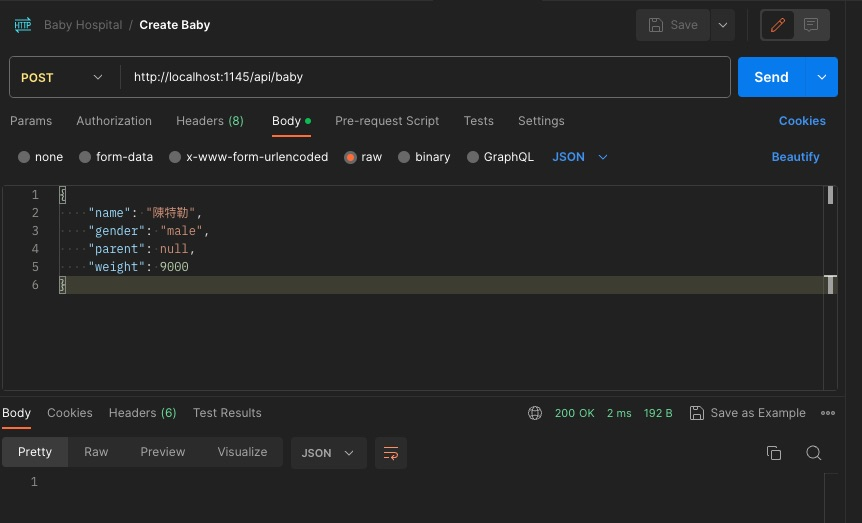
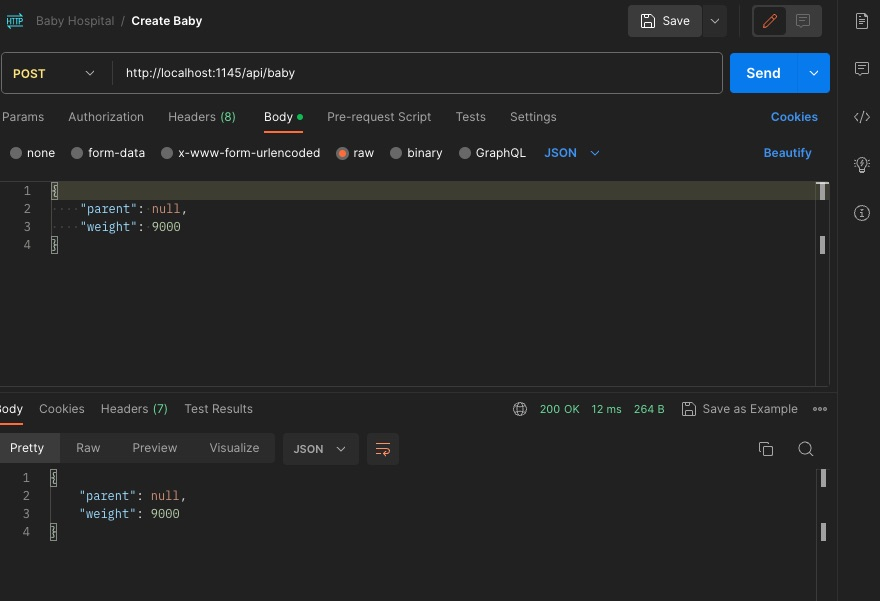
Add docs, just one readme is too long lol

diff --git a/backend/index.js b/backend/index.js
@@ -3,6 +3,8 @@ const app = express()
 const port = 1145
 
 
+app.use(express.json())
+
 app.get('/', (req, res) => {
   res.send('Hello World!')
 })
@@ -11,7 +13,9 @@ app.get('/', (req, res) => {
 var BABY = []
 
 app.post('/api/baby', (req, res) => {
-  var baby = req.body 
+  var baby = req.body
+
+  console.log(req.body)
   BABY.push(baby)
   res.json(baby)
 })

diff --git a/readme.md b/readme.md
@@ -65,83 +65,4 @@ If you can't not see those message, go back to Before Coding
 Example app listening on port 1145
 ```
 
-
-### So what is a Baby?
-
-Before we code anything else about baby, we need to think 
-
-* What is a baby?
-* When will you enter the baby's information to the system?
-  * I would like to enter the baby's information right after they born.
-  * So some of information may not be available at that time.
-* What information should a baby carried?
-  * For example, we want to storage those information which depends on A baby.
-    * gender (*)
-    * weight (*)
-    * name
-    * parent
-  * Like we talked about before, some information may not be available for now
-    * Maybe we don't know the parent yet
-    * Maybe we don't know the name yet
-    * But for the biological gender and weight, Surely we should know!
-    * So that's why those column marked with "*" which means those information are required to fill while you entering those information.
-
-### Here is the Baby schema
-```javascript
-{
-  gender: '', // String *
-  weight: '', // Number *
-  name: '', // String
-  parent: '', // String
-}
-```
-
-## Now we are starting to code!
-
-### `POST /api/baby`
-
-We are going to create a baby by this route, and we will storage the information in memory for now.
-
-So we going to define a variable to do that, by any line before baby routes add this line
-
-```javascript
-var BABY = []
-
-app.post('/api/baby', (req, res) => {
-  var baby = req.body 
-  BABY.push(baby)
-  res.json(baby)
-})
-```
-
-That it for now! Then go to Postman to send the baby information to create.
-
-![](https://github.com/zackexplosion/Baby-Hospital/blob/main/screenshots/001.jpg?raw=true)
-
-## `GET /api/baby`
-
-And we want to know if the baby information have been successfully stored or not.
-
-So you making the baby list right now.
-
-```javascript
-var BABY = []
-
-app.get('/api/baby', (req, res) => {
-  res.json(BABY)
-})
-```
-
-And use Postman to do the request too.
-
-### WTF? Someone hacked me?
-
-
-![](https://github.com/zackexplosion/Baby-Hospital/blob/main/screenshots/002.jpg?raw=true)
-
-
-Let's why we need validation!
-
-
-
-
+If you saw those message. Let's go next chapter [Start Coding](./docs/001_start_coding.md)

diff --git a/docs/001_start_coding.md b/docs/001_start_coding.md
@@ -1,0 +1,81 @@
+# So what is a Baby?
+
+Before we code anything else about baby, we need to think 
+
+* What is a baby?
+* When will you enter the baby's information to the system?
+  * I would like to enter the baby's information right after they born.
+  * So some of information may not be available at that time.
+* What information should a baby carried?
+  * For example, we want to storage those information which depends on A baby.
+    * gender (*)
+    * weight (*)
+    * name
+    * parent
+  * Like we talked about before, some information may not be available for now
+    * Maybe we don't know the parent yet
+    * Maybe we don't know the name yet
+    * But for the biological gender and weight, Surely we should know!
+    * So that's why those column marked with "*" which means those information are required to fill while you entering those information.
+
+## Here is the Baby schema
+```javascript
+{
+  gender: '', // String *
+  weight: '', // Number *
+  name: '', // String
+  parent: '', // String
+}
+```
+
+## Now we are starting to code!
+
+### `POST /api/baby`
+
+We are going to create a baby by this route, and we will storage the information in memory for now.
+
+So we going to define a variable to do that, by any line before baby routes add this line
+
+```javascript
+var BABY = []
+
+app.post('/api/baby', (req, res) => {
+  var baby = req.body 
+  BABY.push(baby)
+  res.json(baby)
+})
+```
+
+That it for now! Then go to Postman to send the baby information to create.
+
+![](https://github.com/zackexplosion/Baby-Hospital/blob/main/screenshots/001.jpg?raw=true)
+
+## `GET /api/baby`
+
+And we want to know if the baby information have been successfully stored or not.
+
+So you making the baby list right now.
+
+```javascript
+var BABY = []
+
+app.get('/api/baby', (req, res) => {
+  res.json(BABY)
+})
+```
+
+And use Postman to do the request too.
+
+### WTF? Someone hacked me?
+
+Why a baby can having no gender?
+
+
+![](https://github.com/zackexplosion/Baby-Hospital/blob/main/screenshots/002.jpg?raw=true)
+
+
+Let's why we need validation!
+
+
+
+
